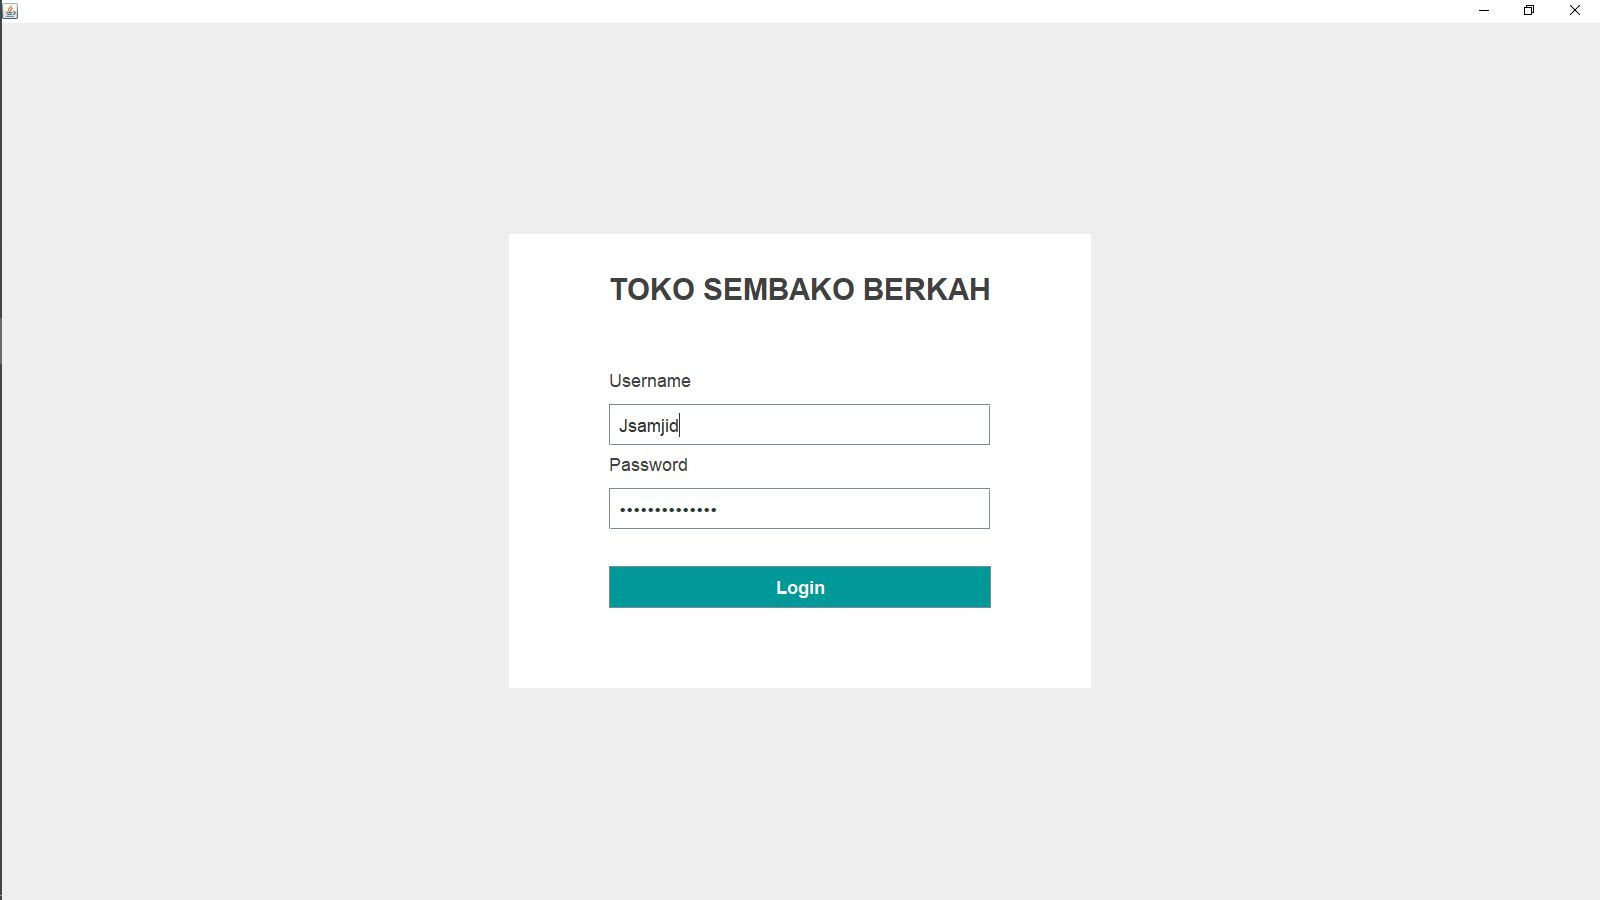
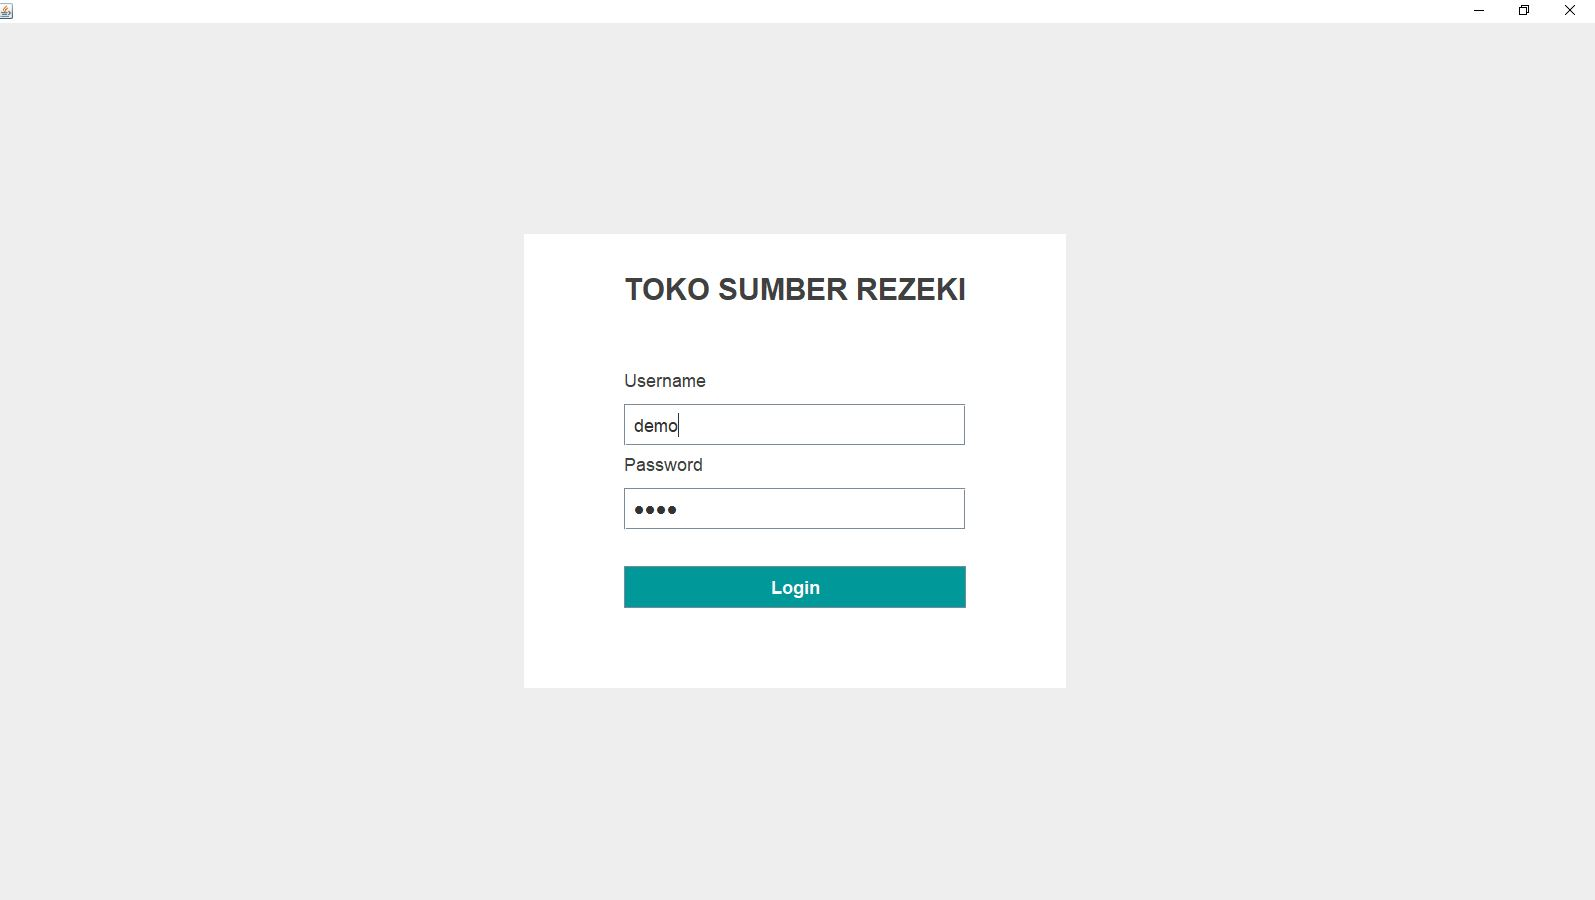
LOGIN

diff --git a/src/tokosembakoberkah/view/Login/LoginFrame.java b/src/tokosembakoberkah/view/Login/LoginFrame.java
@@ -95,7 +95,7 @@ public class LoginFrame extends javax.swing.JFrame {
 
         jLabel1.setFont(new java.awt.Font("sansserif", 1, 30)); // NOI18N
         jLabel1.setForeground(java.awt.Color.darkGray);
-        jLabel1.setText("TOKO SEMBAKO BERKAH");
+        jLabel1.setText("TOKO SUMBER REZEKI");
 
         jLabel2.setFont(new java.awt.Font("sansserif", 0, 18)); // NOI18N
         jLabel2.setForeground(java.awt.Color.darkGray);
